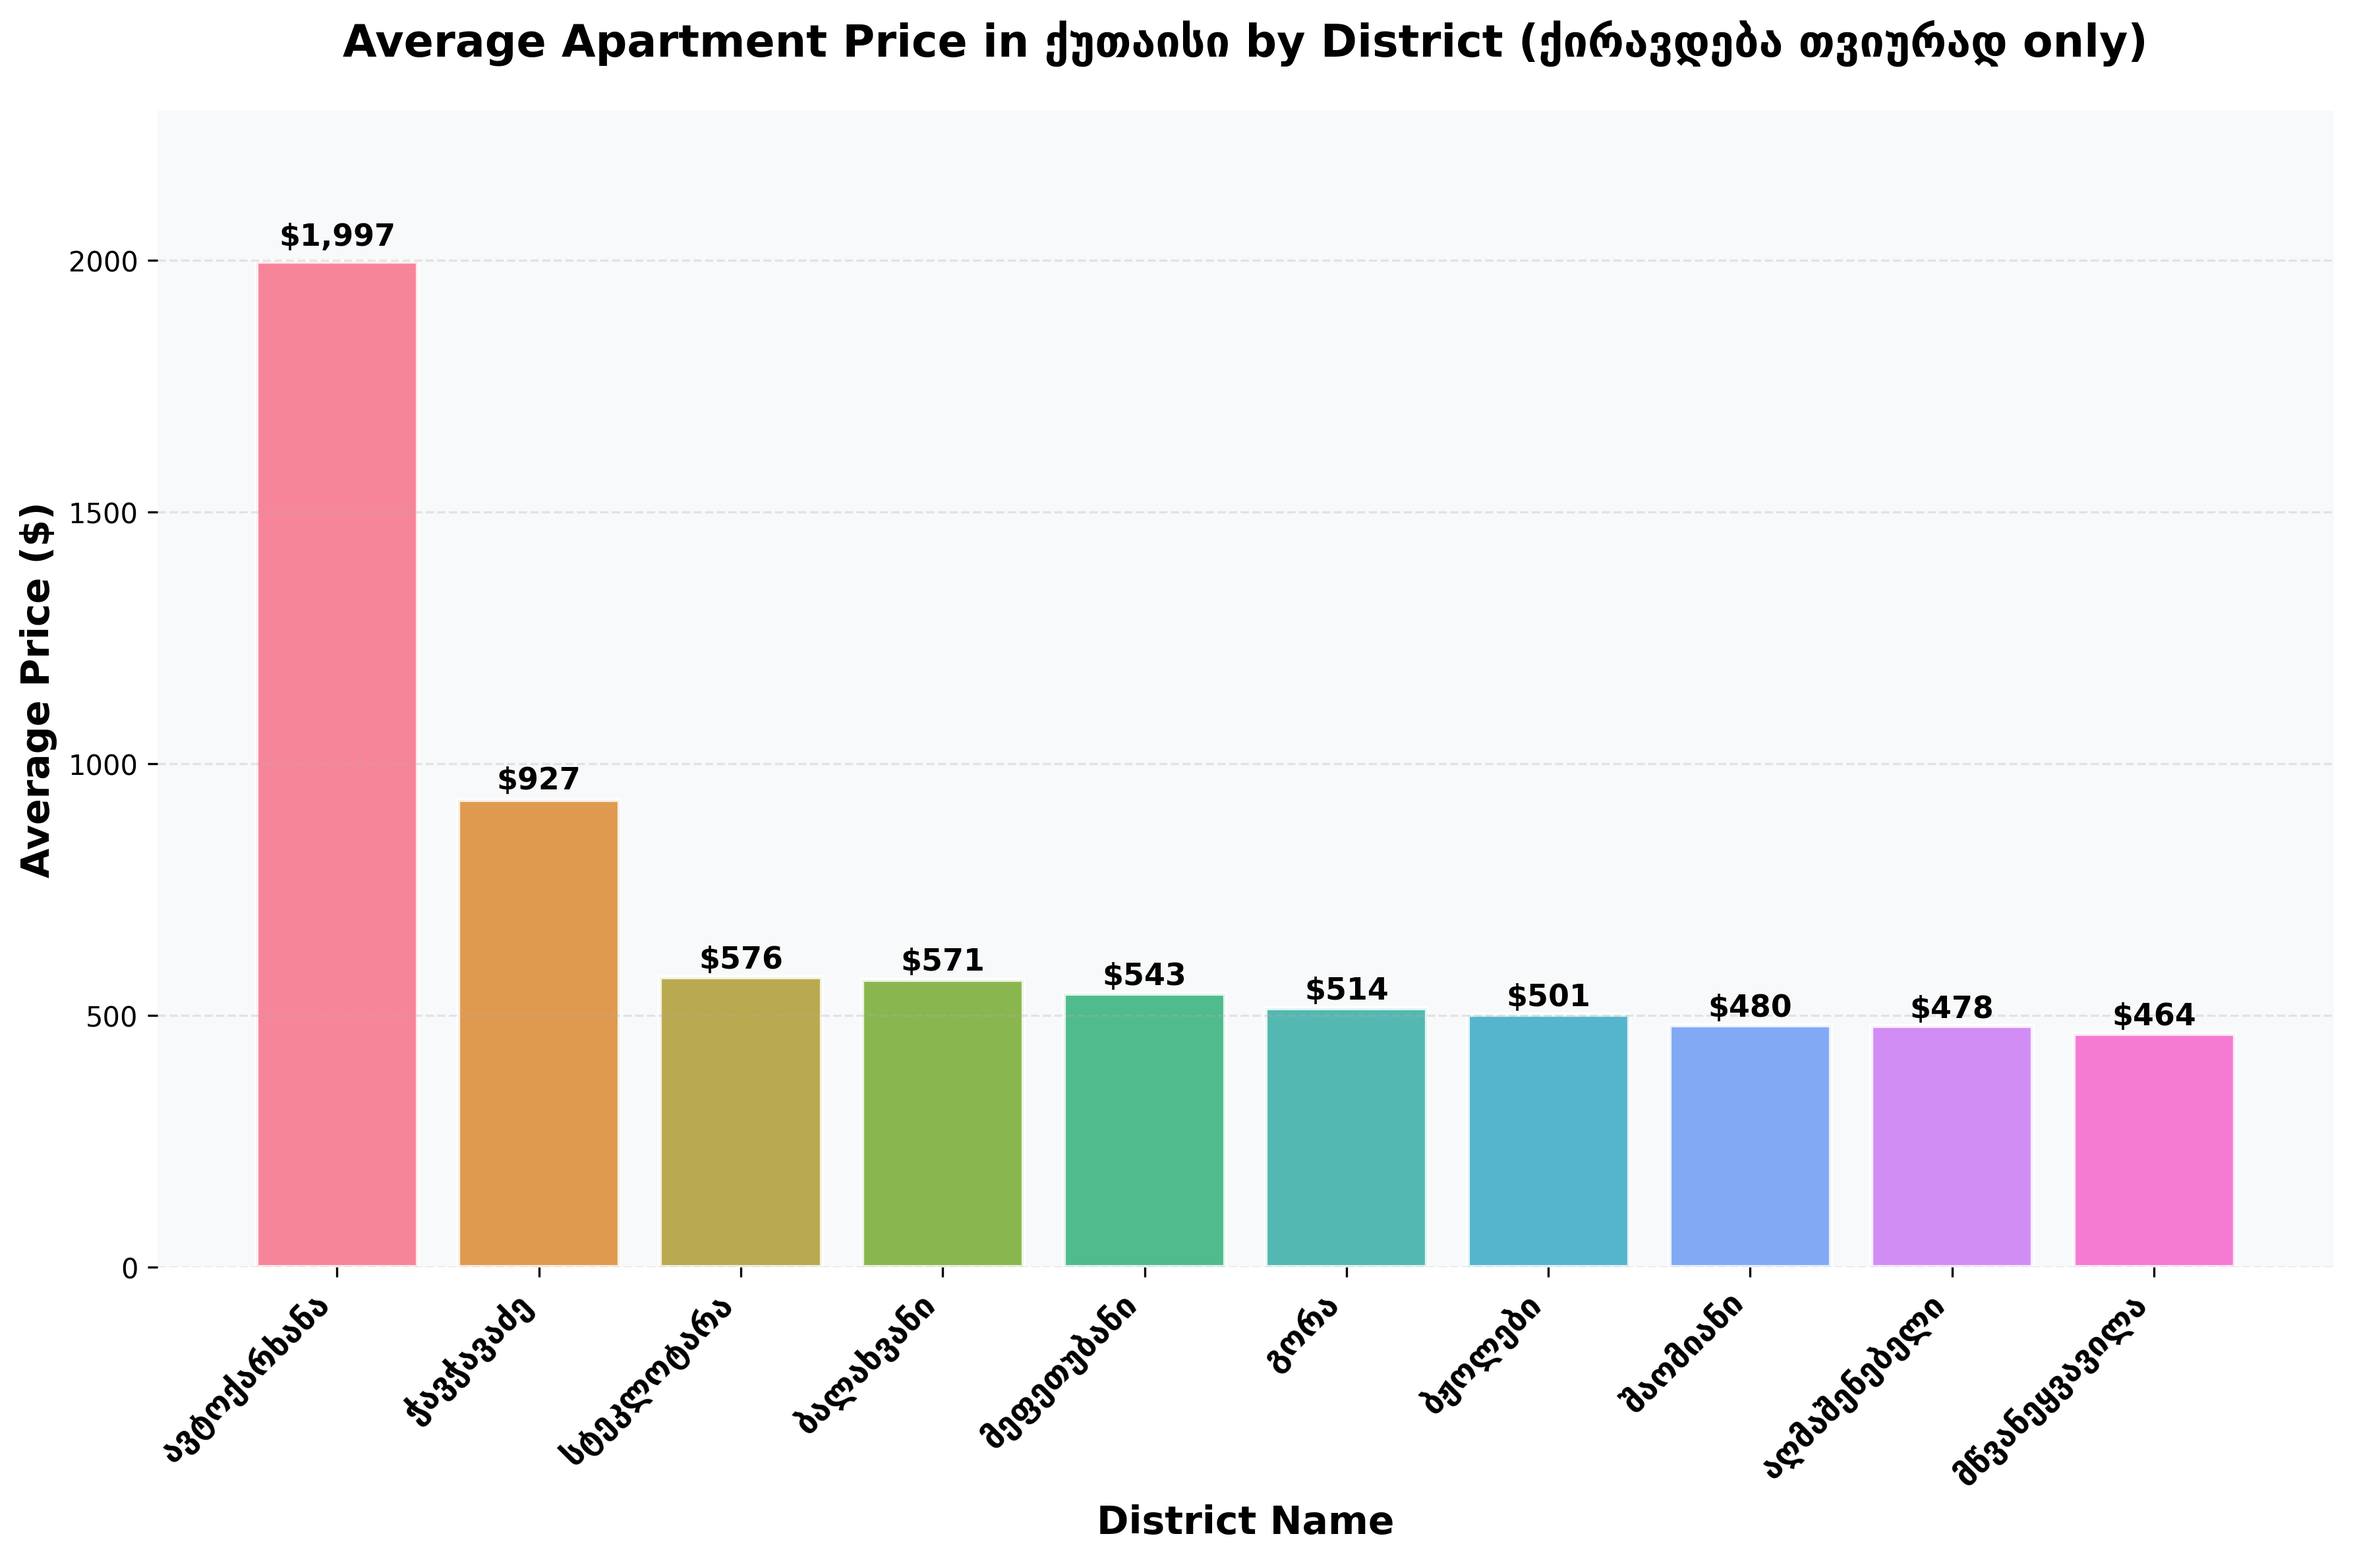
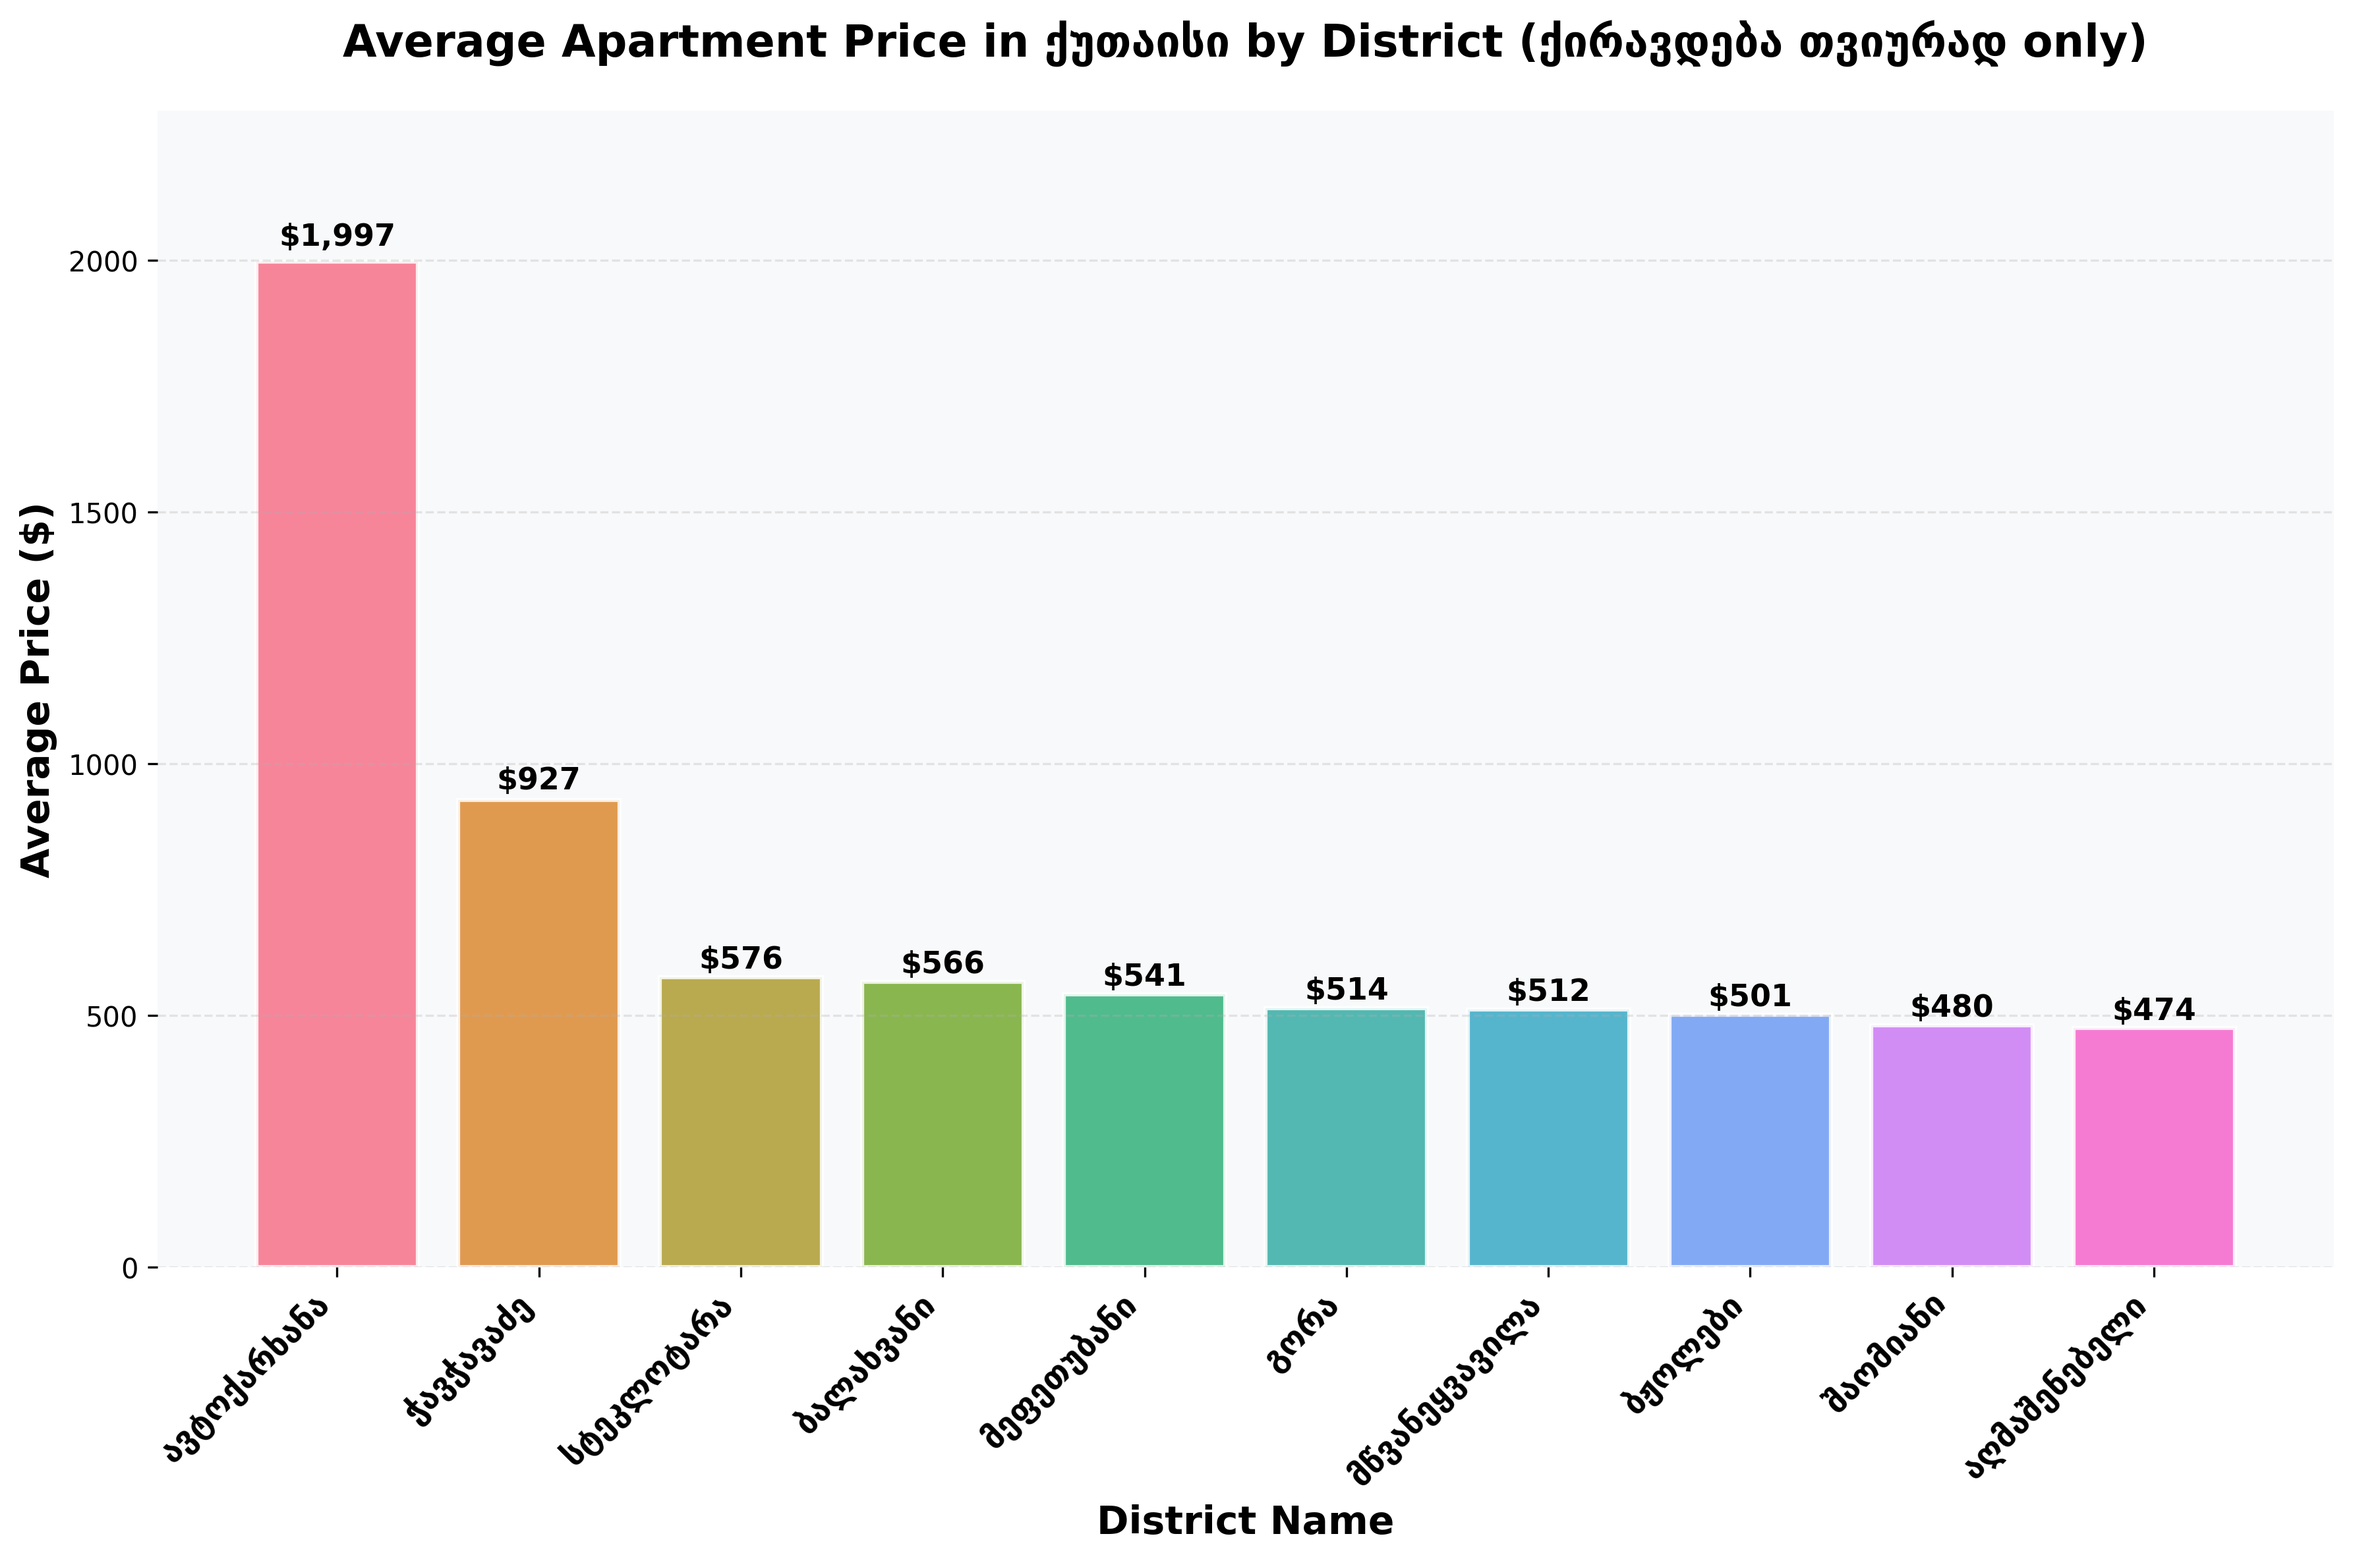
added safe reading of scraped data from csv files, current data: 16.4 thousand rows, livo scraper not working as of now

diff --git a/scrape_clean_analyze/data_cleaning/ApartmentsDataFrame.py b/scrape_clean_analyze/data_cleaning/ApartmentsDataFrame.py
@@ -1,4 +1,5 @@
 import pandas as pd
+import os
 
 
 
@@ -13,15 +14,47 @@ class ApartmentsDataFrame:
         """Ensures only one instance is created."""
         if cls._instance is None:
             cls._instance = super(ApartmentsDataFrame, cls).__new__(cls)
-            cls._instance.init_data(livo_apartments_csv, myhome_apartments_csv, sshome_apartments_csv)
+            cls._instance.init_data([livo_apartments_csv, myhome_apartments_csv, sshome_apartments_csv])
         return cls._instance
 
-    def init_data(self, livo_csv, myhome_csv, sshome_csv):
+    def safe_read_csv(self, path):
+        """Safely load a CSV file. Skip if missing, empty, or invalid."""
+        if not os.path.exists(path):
+            print(f"[WARN] File not found: {path}. Skipping.")
+            return None
+
+        if os.path.getsize(path) == 0:
+            print(f"[WARN] File is empty: {path}. Skipping.")
+            return None
+
+        try:
+            df = pd.read_csv(path)
+            if df.empty:
+                print(f"[WARN] File has no rows: {path}. Skipping.")
+                return None
+            return df
+        except pd.errors.EmptyDataError:
+            print(f"[WARN] No columns to parse in: {path}. Skipping.")
+            return None
+        except Exception as e:
+            print(f"[WARN] Failed to read {path}: {e}. Skipping.")
+            return None
+
+    def init_data(self, csv_files):
         """Loads data from CSV files and merges them into a single DataFrame."""
-        ss_home_df = pd.read_csv(sshome_csv)
-        my_home_df = pd.read_csv(myhome_csv)
-        livo_df = pd.read_csv(livo_csv)
-        self.df = pd.concat([livo_df, my_home_df, ss_home_df], ignore_index=True)
+        dfs = []
+
+        for csv_path in csv_files:
+            df = self.safe_read_csv(csv_path)
+            if df is not None:
+                dfs.append(df)
+
+        if not dfs:
+            print("[ERROR] No valid CSV files loaded. Creating empty DataFrame.")
+            self.df = pd.DataFrame()
+        else:
+            self.df = pd.concat(dfs, ignore_index=True)
+
         print(f"DataFrame loaded with {len(self.df)} records.")
 
     def get_df(self):

diff --git a/scrape_clean_analyze/scrapers/LivoScraper.py b/scrape_clean_analyze/scrapers/LivoScraper.py
@@ -9,7 +9,7 @@ class LivoScraper(BaseScraper):
         super().__init__()
         self.main_url = "https://livo.ge/"
         self.city_id_dict = {'თბილისი': 1, "ქუთაისი": 96, 'ბათუმი': 15}  # Cities with ids on this website
-        self.number_of_pages_to_scrape = 10
+        self.number_of_pages_to_scrape = 1
         self.raw_apartments_csv_path = '../data_output/livo_apartments.csv'
 
     def get_url(self, id, page):
@@ -18,7 +18,7 @@ class LivoScraper(BaseScraper):
 
     def scraper(self):
         """ Main function to scrape the data from livo.ge website """
-        driver = self.configure_chromedriver()
+        driver = self.configure_driver()
         apartments_data = []
 
         for city_name, city_id in self.city_id_dict.items():
@@ -31,6 +31,7 @@ class LivoScraper(BaseScraper):
                     print(f"{self.main_url} - City: {city_name}, Page: {page_counter}")
 
                     apartments = self.wait_for_links(driver, 'udzravi-qoneba', selector='a.item-url')
+
                     if len(apartments) == 0:
                         print(f"{self.main_url} - Skipping Page: {page_counter} — links not loaded")
                         page_counter += 1
@@ -45,6 +46,7 @@ class LivoScraper(BaseScraper):
                         div_1 = siblings[1]
 
                         price_el = self.safe_find_element(div_0, By.XPATH, './div/div/div/div[1]')
+                        print(price_el.text)
                         if price_el:
                             price_text = price_el.text.strip().replace(",", "")
                             if price_text.isdigit():

diff --git a/scrape_clean_analyze/main.py b/scrape_clean_analyze/main.py
@@ -1,3 +1,4 @@
+from scrape_clean_analyze.scrapers.BaseScraper import BaseScraper
 from scrape_clean_analyze.scrapers.MyHomeScraper import MyHomeScraper
 from scrape_clean_analyze.scrapers.LivoScraper import LivoScraper
 from scrape_clean_analyze.scrapers.SSHomeScraper import SSHomeScraper
@@ -19,8 +20,8 @@ if __name__ == "__main__":
     def run_sshome():
         SSHomeScraper().scraper()
 
-    with ThreadPoolExecutor(max_workers=3) as executor:
-        for future in [executor.submit(run_myhome), executor.submit(run_livo), executor.submit(run_sshome)]:
+    with ThreadPoolExecutor(max_workers=2) as executor:
+        for future in [executor.submit(run_myhome), executor.submit(run_sshome)]:
             future.result()  # Ensures any exceptions are raised
 
     """ Step 2: Data cleaning and transformation """

diff --git a/scrape_clean_analyze/scrapers/SSHomeScraper.py b/scrape_clean_analyze/scrapers/SSHomeScraper.py
@@ -19,7 +19,7 @@ class SSHomeScraper(BaseScraper):
 
     def scraper(self):
         """ Main function to scrape the data from home.ss.ge website """
-        driver = self.configure_chromedriver()
+        driver = self.configure_driver()
         apartments_data = []
 
         for city_name, city_id in self.city_id_dict.items():

diff --git a/scrape_clean_analyze/scrapers/MyHomeScraper.py b/scrape_clean_analyze/scrapers/MyHomeScraper.py
@@ -20,7 +20,7 @@ class MyHomeScraper(BaseScraper):
 
     def scraper(self):
         """ Main function to scrape the data from myhome.ge website """
-        driver = self.configure_chromedriver()
+        driver = self.configure_driver()
         apartments_data = []
 
         for city_name, city_id in self.city_id_dict.items():
